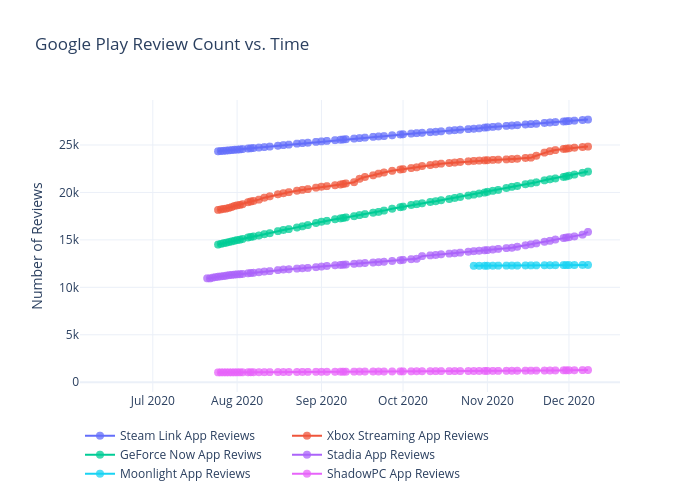
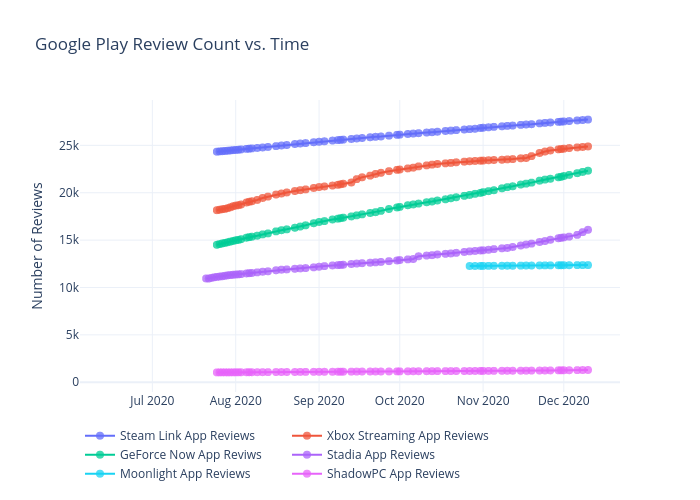
Add files via upload

diff --git a/googleplay/figure.js b/googleplay/figure.js
@@ -175,7 +175,8 @@ var figure = {
                 "27524",
                 "27567",
                 "27632",
-                "27676"
+                "27676",
+                "27720"
             ],
             "marker": {
                 "size": 8,
@@ -360,7 +361,8 @@ var figure = {
                 "24650",
                 "24717",
                 "24786",
-                "24832"
+                "24832",
+                "24888"
             ],
             "marker": {
                 "size": 8,
@@ -545,7 +547,8 @@ var figure = {
                 "21764",
                 "21882",
                 "22065",
-                "22196"
+                "22196",
+                "22326"
             ],
             "marker": {
                 "size": 8,
@@ -730,7 +733,8 @@ var figure = {
                 "15284",
                 "15366",
                 "15553",
-                "15840"
+                "15840",
+                "16086"
             ],
             "marker": {
                 "size": 8,
@@ -915,7 +919,8 @@ var figure = {
                 "12347",
                 "12350",
                 "12361",
-                "12360"
+                "12360",
+                "12363"
             ],
             "marker": {
                 "size": 8,
@@ -1100,7 +1105,8 @@ var figure = {
                 "1260",
                 "1264",
                 "1277",
-                "1285"
+                "1285",
+                "1291"
             ],
             "marker": {
                 "size": 8,
@@ -1118,8 +1124,8 @@ var figure = {
         "xaxis": {
             "type": "date",
             "range": [
-                "2020-06-05 00:47:39.3522",
-                "2020-12-18 23:12:20.6478"
+                "2020-06-04 21:47:10.3162",
+                "2020-12-21 02:12:49.6838"
             ],
             "title": {
                 "text": ""
@@ -1129,8 +1135,8 @@ var figure = {
         "yaxis": {
             "type": "linear",
             "range": [
-                -809.522351197827,
-                29521.522351197826
+                -1591.1891891891892,
+                30347.18918918919
             ],
             "title": {
                 "text": "Number of Reviews"
